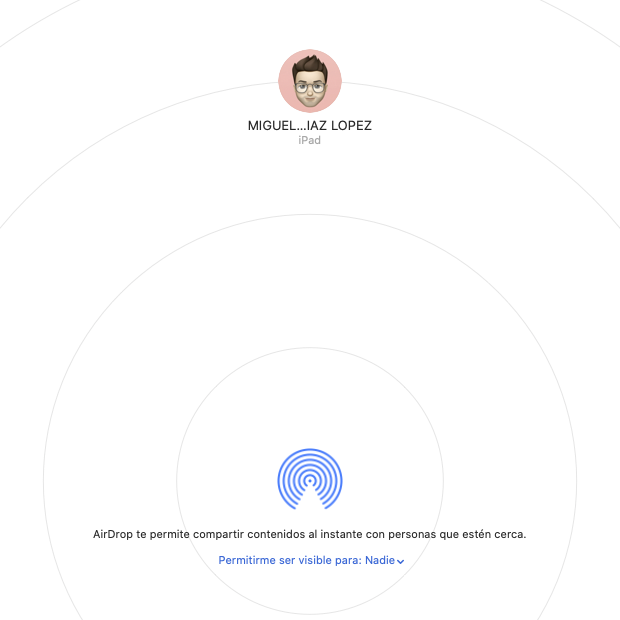
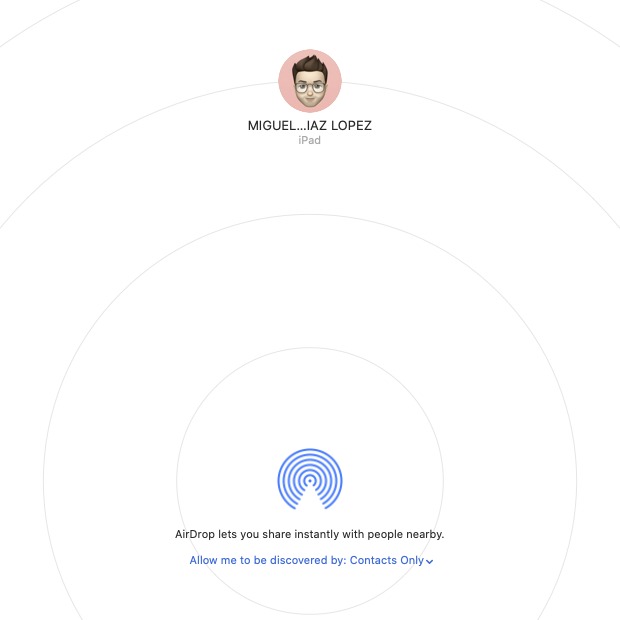
Update Documentation.app/Contents/MacOS/First steps.playground/Pages/How to export my snippets?.xcplaygroundpage/Contents.swift
Update Documentation.app/Contents/MacOS/First steps.playground/Pages/How to use Carbon API?.xcplaygroundpage/Contents.swift

Update Documentation.app/Contents/MacOS/First steps.playground/Pages/Playground Book with 3rd-party libraries.xcplaygroundpage/Contents.swift

Update Documentation.app/Contents/MacOS/First steps.playground/Pages/Playground Book with 3rd-party libraries.xcplaygroundpage/Contents.swift

Update Documentation.app/Contents/MacOS/First steps.playground/Pages/Xcode Playground → nef Playground.xcplaygroundpage/Contents.swift

Update Documentation.app/Contents/MacOS/First steps.playground/Pages/Xcode Playground → nef Playground.xcplaygroundpage/Contents.swift

Update Documentation.app/Contents/MacOS/First steps.playground/Pages/Xcode Playground → nef Playground.xcplaygroundpage/Contents.swift

Update Documentation.app/Contents/MacOS/First steps.playground/Pages/Xcode Playground → nef Playground.xcplaygroundpage/Contents.swift

Update Documentation.app/Contents/MacOS/First steps.playground/Pages/Playground Book with 3rd-party libraries.xcplaygroundpage/Contents.swift

Update Documentation.app/Contents/MacOS/First steps.playground/Pages/Playground Book with 3rd-party libraries.xcplaygroundpage/Contents.swift

Update Documentation.app/Contents/MacOS/First steps.playground/Pages/Playground Book with 3rd-party libraries.xcplaygroundpage/Contents.swift
[…]

Changed region(s): [[0.1532, 0.8581, 0.8581, 0.9194]]

diff --git a/Documentation.app/Contents/MacOS/First steps.playground/Pages/Playground Book with 3rd-party libraries.xcplaygroundpage/Contents.swift b/Documentation.app/Contents/MacOS/First steps.playground/Pages/Playground Book with 3rd-party libraries.xcplaygroundpage/Contents.swift
@@ -8,11 +8,11 @@
 /*:
  ## 🔨 Playground Book with 3rd-party libraries
  
- As you read in `Getting started` section, you can use nef in different forms. Accordingly, we will see how to create a Playground for iPad compatible with 3rd-party libraries, using the Command-Line Tool and the Xcode plugin.
+ This page describes how to create a Playground for iPad with support for 3rd-party libraries, using the Command-Line Tool and the Xcode plugin.
  
  #### Create a Swift Package
  
- Before you need to define a Swift Package with your dependencies. In this tutorial, we will create one with Bow as a dependency. It'll be located at `~/Desktop`.
+ First of all, you need to define a Swift Package with your dependencies. In this tutorial, we will create one with Bow as a dependency. It'll be located at `~/Desktop`.
  
  ```swift
  // swift-tools-version:5.1
@@ -29,7 +29,7 @@
  
  ### 1. How to create a Playground book using nef Command-Line?
  
- #### Step 1: Run nef with subcommand `iPad`
+ #### Step 1: Run nef with subcommand `ipad`
  
  ```bash
  ➜ nef ipad --name Tutorial --package  ~/Desktop/Package.swift --output ~/Desktop
@@ -37,7 +37,7 @@
  
  #### Step 2: Copy `Tutorial.playgroundbook` to your iPad
  
- You can copy the Playground Book using `AirDrop`, `iCloud Drive` or `iTunes`. Our recommendation is use `AirDrop`; it is an easy way to transfer documents to your iPad and it will be auto-opened into Playgrounds app.
+ You can copy the Playground Book using AirDrop, iCloud Drive or iTunes. Our recommendation is use AirDrop; it is an easy way to transfer documents to your iPad and it will be opened automatically into the Swift Playgrounds app.
  
  <p>
  <img src="/assets/airdrop.png" height="350">
@@ -45,7 +45,7 @@
  
  #### Step 3: Open it in your iPad using `Playgrounds` app
  
- Once you copy `Tutorial.playgroundbook` to your iPad, you only need to find it and open. It'll be auto-opened using `Playgrounds` app.
+ Once you copy `Tutorial.playgroundbook` to your iPad, you only need to find it and open. It'll be opened automatically using Swift Playgrounds app.
  
  <p>
  <img src="/assets/tutorial-playgroundbook.jpeg" height="150">
@@ -55,9 +55,9 @@
  
  #### Step 1: Install `nef Plugin` from GitHub
  
- You can find the last `.dmg` release in [GitHub](https://github.com/bow-swift/nef-plugin/releases) page.
+ You can find the last `.dmg` release in [GitHub](https://github.com/bow-swift/nef-plugin/releases).
 
- Just download the installer and move `nef` to `Applications` folder; after, you need to open it and follow the instructions:
+ Just download the installer and move `nef` to the *Applications* folder; afterwards, you need to open it and follow the instructions:
  
  <p>
  <img src="/assets/nef-plugin-install.png" height="600">
@@ -65,7 +65,7 @@
  
  #### Step 2: Open `Package.swift` using Xcode
  
- Go to `~/Desktop` and open the `Package.swift` you created in previous steps.
+ Go to `~/Desktop` and open the `Package.swift` you created in a previous step.
  
  #### Step 3: Make `Playground Book` using nef plugin
  
@@ -73,7 +73,7 @@
  
  ![](/assets/package-playground-book.png)
  
- After the Playground has been created, you can follow the steps from the second one that you seen in the above section.
+ After the Playground has been created, you can continue from the second step in the previous section in order to load it into the iPad.
  
- 📣 If you download [Swift Playgrounds](https://apps.apple.com/es/app/swift-playgrounds/id1496833156?mt=12) app in your macOS, you can open it and start to work. In the future, you can transfer the Playground Book to your iPad to continue the work; even better, you can use `iCloud Drive` and share the Playground between your Mac and your iPad.
+ 📣 If you download [Swift Playgrounds](https://apps.apple.com/es/app/swift-playgrounds/id1496833156?mt=12) app in your macOS, you can open it and start working. Later, you can transfer the Playground Book to your iPad to continue working; even better, you can use `iCloud Drive` and share the Playground between your Mac and your iPad, keeping its state in sync.
  */

diff --git a/Documentation.app/Contents/MacOS/First steps.playground/Pages/Xcode Playground → nef Playground.xcplaygroundpage/Contents.swift b/Documentation.app/Contents/MacOS/First steps.playground/Pages/Xcode Playground → nef Playground.xcplaygroundpage/Contents.swift
@@ -8,21 +8,21 @@
 /*:
  ## Xcode Playground ⇢ nef Playground
  
- I assume you have an Xcode Playground and you want to take advantage of `nef Playground` features:
+ Let's assume you already have an Xcode Playground and you want to take advantage of `nef Playground` features:
  
  - 🎉 Adds support for __third party libraries__.
  
- - 🖥 Enables to __compile__ using command-line (out-of-the-box Apple IDE).
+ - 🖥 Enables __compilation__ of Playgrounds using command-line.
  
- + 🗞 Renders into __markdown__ files, __Jekyll__ site or __Carbon__ snippets.
+ + 🗞 Renders into __Markdown__ files, a __Jekyll__ site or __Carbon__ snippets.
  
  &nbsp;
  
  #### Step 1: Prepare your Xcode Playground
  
- Given an Xcode Playground, which name will be `MyPlayground` and it is located at `~/Desktop`
+ Let's assume you have an Xcode Playground, named `MyPlayground` in this example, and located at `~/Desktop`.
  
- If your playground does not have any page, add someone, for example `Tutorial`. Your playground structure should look like:
+ If your playground does not have any page, add some; for example, a page titled `Tutorial`. Your playground structure should look like:
  
  ![](/assets/myplayground.png)
  
@@ -32,13 +32,13 @@
  ➜ nef playground --playground ~/Desktop/MyPlayground.playground --name MyPlayground
  ```
  
- It'll create a `nef Playground` in your current location which name will be `MyPlayground`. You can go to the section **Command-Line** to learn more about nef Playgrounds.
+ It'll create a `nef Playground` in your current location, named `MyPlayground`. You can go to the section **Command-Line** to learn more about nef Playgrounds.
  
- Using one of these options, you can change the dependency manager and its dependencies by default
+ Using one of these options, you can change the dependency manager and its default dependencies:
 
- - `--podfile <podfile>` Specify a **Podfile** with your own dependencies. Create a `Podfile` listing your dependencies.
+ - `--podfile <podfile>`: Supply a **Podfile** with your own dependencies. You need to create a `Podfile` listing your dependencies.
 
- - `--cartfile <cartfile>` Specify a **Cartfile** with your dependencies. Create a Cartfile listing your dependencies.
+ - `--cartfile <cartfile>`: Supply a **Cartfile** with your dependencies. You need to create a Cartfile listing your dependencies.
 
  > You can find more options and information in the section [Creating a nef Playground](/docs/command-line/creating-a-nef-playground/).
  
@@ -46,11 +46,11 @@
  
  ### How to make an Xcode Playground compatible with CocoaPods?
  
- Following the options seen above, we will continue the example to make our Xcode Playground compatibles with 3rd-party libraries using CocoaPods as a dependency manager.
+ Following the options seen above, we will continue the example to make our Xcode Playgrounds compatible with 3rd-party libraries using CocoaPods as a dependency manager.
  
  #### Step 1: Create a `Podfile` listing your dependencies
 
- I'll be named `MyPodfile` and located at `~/Desktop`
+ It will be named `MyPodfile` and located at `~/Desktop`
  
  ```
  target 'MyPodfile' do
@@ -61,7 +61,7 @@
  end
  ```
  
- #### Step 2: Converts Xcode Playground using your dependencies
+ #### Step 2: Convert an Xcode Playground using your dependencies
  
  Run nef with the options `--playground` and `--podfile`:
  
@@ -69,5 +69,5 @@
  ➜ nef playground --playground ~/Desktop/MyPlayground.playground --name MyPlayground --podfile ~/Desktop/MyPodfile
  ```
  
- > Currently, nef is compatible with CocoaPods and Carthage. In the future, when Apple fixes a known issues in Swift package and Xcode ([#47668990](https://github.com/bow-swift/nef/issues/33)) it'll also be compatible with SPM.
+ > Currently, nef is compatible with CocoaPods and Carthage. In the future, when Apple fixes a known issues in Swift Package Manager and Xcode ([#47668990](https://github.com/bow-swift/nef/issues/33)), it will also be compatible with SPM.
  */

diff --git a/Documentation.app/Contents/MacOS/First steps.playground/Pages/How to export my snippets?.xcplaygroundpage/Contents.swift b/Documentation.app/Contents/MacOS/First steps.playground/Pages/How to export my snippets?.xcplaygroundpage/Contents.swift
@@ -20,7 +20,7 @@ In this tutorial, we assume you do not have any project, and we will follow up f
 
   ![](/assets/nef-playground.png)
  
- Go back to [Creating a nef Playground](/docs/command-line/creating-a-nef-playground/) to read more about these and other parameters you can use :)
+ Go back to [Creating a nef Playground](/docs/command-line/creating-a-nef-playground/) to read more about these and other parameters you can use.
  
  #### Step 2: Add content to nef Playground
 
@@ -54,7 +54,7 @@ In this tutorial, we assume you do not have any project, and we will follow up f
 
  ![](/assets/nef-tutorial-carbon-customsnippet.png)
 
- #### Step 4: Customize your snippets!
+ #### Step 4: Customize your snippets
  
  Go back to [Carbon Integration](/docs/command-line/exporting-carbon-code-snippets/) to read more about these and other parameters you can use :)
  */

diff --git a/Documentation.app/Contents/MacOS/Command-Line.playground/Pages/Generating content for Jekyll.xcplaygroundpage/Contents.swift b/Documentation.app/Contents/MacOS/Command-Line.playground/Pages/Generating content for Jekyll.xcplaygroundpage/Contents.swift
@@ -1,7 +1,7 @@
 // nef:begin:header
 /*
  layout: docs
- title: Generating Markdown files for Jekyll
+ title: Generating content for Jekyll
  */
 // nef:end
 
@@ -11,7 +11,7 @@ Nef.Playground.needsIndefiniteExecution(false)
 // nef:end
 
 /*:
- ## 🌐 Generating Markdown files for Jekyll
+ ## 🌐 Generating content for Jekyll
  As you can write comments in [Markdown](https://developer.apple.com/library/archive/documentation/Xcode/Reference/xcode_markup_formatting_ref/index.html) in Xcode Playgrounds, this makes very suitable to write documentation with compilable examples.
  Leveraging this, `nef` can create Markdown files that can be consumed from Jekyll to generate a microsite. The command to do this is:
  

diff --git a/Documentation.app/Contents/MacOS/First steps.playground/Pages/How to use Carbon API?.xcplaygroundpage/Contents.swift b/Documentation.app/Contents/MacOS/First steps.playground/Pages/How to use Carbon API?.xcplaygroundpage/Contents.swift
@@ -20,7 +20,7 @@
  
  #### Step 2: Create a Carbon style
  
- Create a carbon style to apply to our code, for the generated snippet.
+ Create a carbon style to apply to our code, in the generated snippet image.
  
  ```swift
  let code =  """
